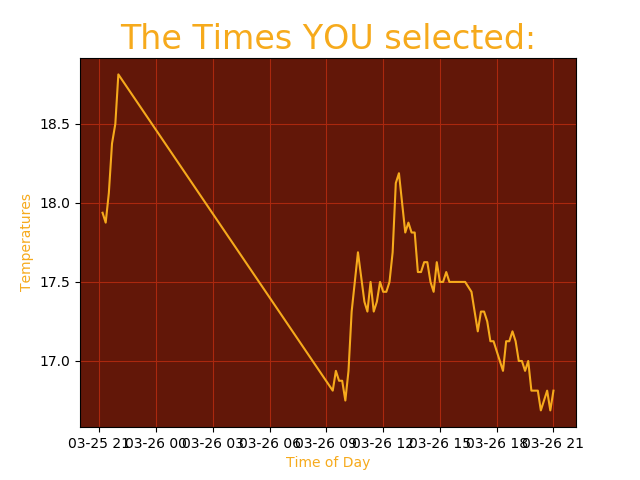
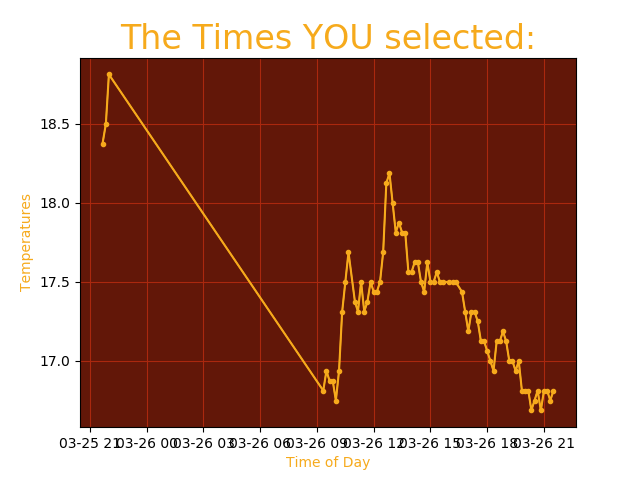
added tooltip annotations to selected dates graph

Changed region(s): [[0.1562, 0.1562, 0.875, 0.875], [0.0938, 0.9062, 0.9062, 0.9375]]

diff --git a/graphmaker.py b/graphmaker.py
@@ -2,9 +2,17 @@
 import matplotlib as mpl 
 mpl.use('Agg')
 from matplotlib import pyplot as plt
-from mpld3 import fig_to_html
+from mpld3 import fig_to_html, plugins
+from matplotlib.lines import Line2D
 
 def make_plot_from_range(temperatureHistory: list):
+
+    css = """
+    .mpld3-tooltip {
+    background-color: white; 
+    color: #AA280E }
+    """ 
+    fig, ax = plt.subplots()
 
     x = []
     y = []
@@ -13,7 +21,6 @@ def make_plot_from_range(temperatureHistory: list):
         x.append(item[0])
         y.append(item[1])
 
-    fig = plt.figure()
    
     
     plt.rcParams['axes.facecolor'] = '#621708'
@@ -30,7 +37,17 @@ def make_plot_from_range(temperatureHistory: list):
 
     plt.show()
 
+    lines = Line2D(y, x, color= '#F6AA1C', lw=1, marker='.')
+    ax.add_line(lines)
+
+
+
+    label = [str(i) for i in x]
+
+    labelTooltip = plugins.PointHTMLTooltip(lines, label, css=css)
+    plugins.connect(fig, labelTooltip)
+
     fig.savefig('static/rangetemp.png')
-    plt_html = fig_to_html(fig)
+    plt_html = fig_to_html(fig, figid='selected-graph-generated')
     return plt_html
 
